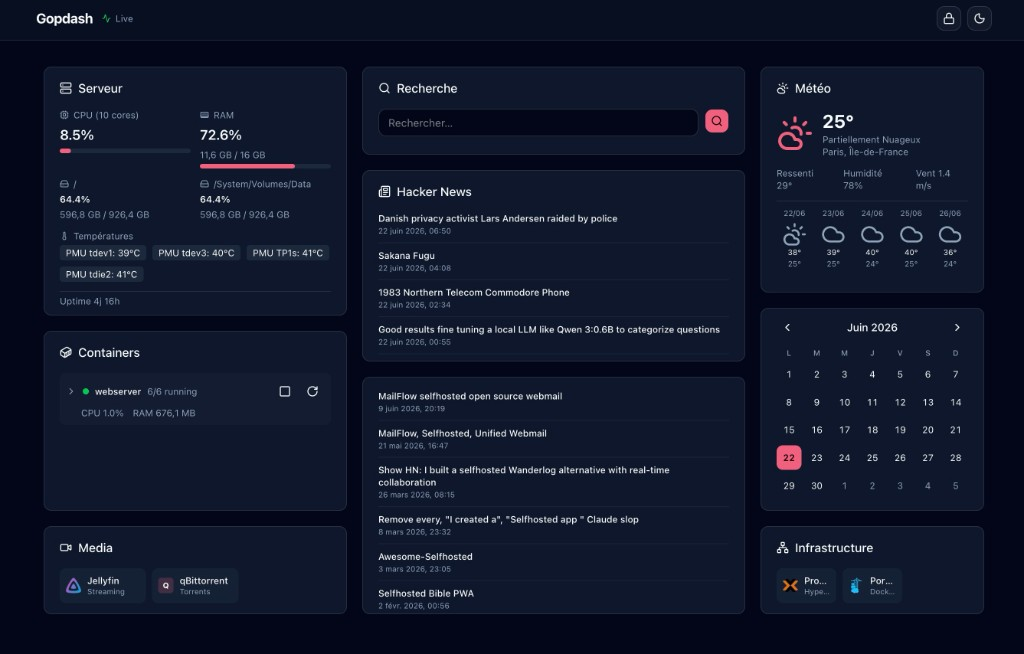
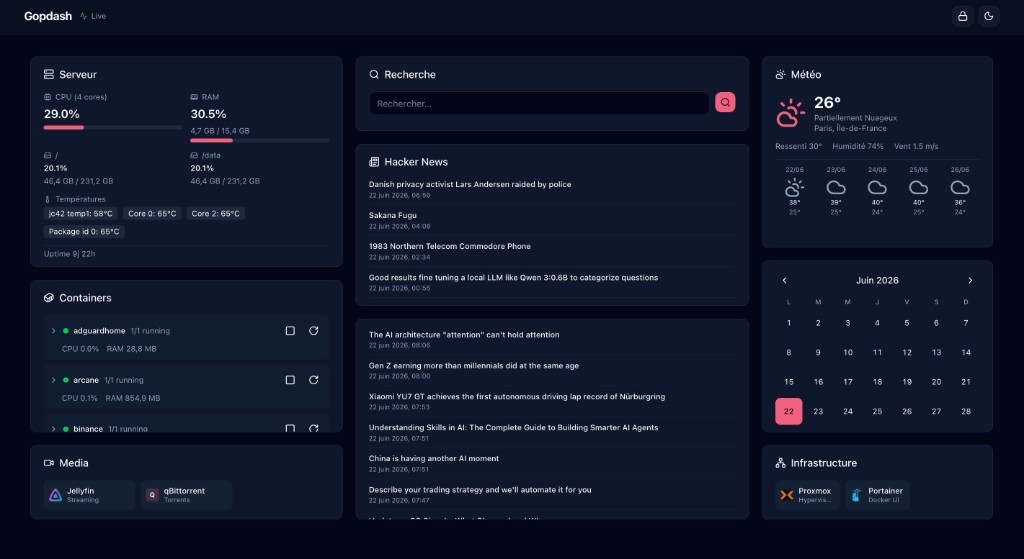
Retire arr_containers, met à jour l'aperçu dashboard et ajoute la capture métriques Docker.

diff --git a/frontend/src/lib/components/widgets/DockerWidget.svelte b/frontend/src/lib/components/widgets/DockerWidget.svelte
@@ -240,11 +240,6 @@
 			<div class="flex items-center gap-2 min-w-0">
 				<span class="w-2 h-2 rounded-full shrink-0 {stateColor(container.state)}"></span>
 				<span class="font-medium truncate">{containerDisplayName(container)}</span>
-				{#if container.is_arr && container.arr_kind}
-					<span class="px-1.5 py-0.5 rounded bg-primary/10 text-primary text-[10px] uppercase">
-						{container.arr_kind}
-					</span>
-				{/if}
 			</div>
 			{@render containerActions(container)}
 		</div>

diff --git a/frontend/src/lib/types.ts b/frontend/src/lib/types.ts
@@ -90,9 +90,6 @@ export interface ContainerInfo {
 	memory_usage: number;
 	memory_limit: number;
 	memory_percent: number;
-	is_arr: boolean;
-	arr_kind: string | null;
-	arr_url: string | null;
 	compose_project: string | null;
 	compose_service: string | null;
 }

diff --git a/backend/src/services/docker.rs b/backend/src/services/docker.rs
@@ -1,4 +1,3 @@
-use crate::config::{ArrKind, DockerConfig};
 use crate::error::{AppError, AppResult};
 use bollard::container::{
     ListContainersOptions, MemoryStats, RestartContainerOptions, StartContainerOptions,
@@ -25,16 +24,12 @@ pub struct ContainerInfo {
     pub memory_usage: u64,
     pub memory_limit: u64,
     pub memory_percent: f64,
-    pub is_arr: bool,
-    pub arr_kind: Option<String>,
-    pub arr_url: Option<String>,
     pub compose_project: Option<String>,
     pub compose_service: Option<String>,
 }
 
 pub struct DockerService {
     docker: Option<Docker>,
-    arr_map: Arc<RwLock<HashMap<String, (ArrKind, Option<String>)>>>,
     stats_cache: Arc<RwLock<HashMap<String, ContainerStats>>>,
 }
 
@@ -69,7 +64,6 @@ impl DockerService {
 
         Ok(Self {
             docker,
-            arr_map: Arc::new(RwLock::new(HashMap::new())),
             stats_cache: Arc::new(RwLock::new(HashMap::new())),
         })
     }
@@ -78,17 +72,6 @@ impl DockerService {
         self.docker
             .as_ref()
             .ok_or_else(|| AppError::Docker("Docker socket unavailable".into()))
-    }
-
-    pub async fn update_arr_map(&self, config: &DockerConfig) {
-        let mut map = self.arr_map.write().await;
-        map.clear();
-        for arr in &config.arr_containers {
-            map.insert(
-                arr.container_name.clone(),
-                (arr.kind.clone(), arr.url.clone()),
-            );
-        }
     }
 
     pub async fn list_containers(
@@ -108,7 +91,6 @@ impl DockerService {
             .map_err(|e| AppError::Docker(e.to_string()))?;
 
         let stats = self.stats_cache.read().await;
-        let arr_map = self.arr_map.read().await;
 
         let mut result: Vec<ContainerInfo> = containers
             .into_iter()
@@ -126,7 +108,6 @@ impl DockerService {
                     compose_project,
                     compose_service,
                     stats.get(&name),
-                    &arr_map,
                 ))
             })
             .collect();
@@ -142,11 +123,7 @@ impl DockerService {
         compose_project: Option<String>,
         compose_service: Option<String>,
         stats: Option<&ContainerStats>,
-        arr_map: &HashMap<String, (ArrKind, Option<String>)>,
     ) -> ContainerInfo {
-        let (arr_kind, arr_url) = arr_map.get(name).cloned().unwrap_or((ArrKind::Other, None));
-        let is_arr = !matches!(arr_kind, ArrKind::Other);
-
         let state = c.state.clone().unwrap_or_else(|| "unknown".into());
         let status = c.status.clone().unwrap_or_else(|| "unknown".into());
 
@@ -193,13 +170,6 @@ impl DockerService {
             memory_usage: mem_usage,
             memory_limit: mem_limit,
             memory_percent: mem_percent,
-            is_arr,
-            arr_kind: if is_arr {
-                Some(format!("{arr_kind:?}").trim_matches('"').to_lowercase())
-            } else {
-                None
-            },
-            arr_url,
             compose_project,
             compose_service,
         }

diff --git a/backend/src/config.rs b/backend/src/config.rs
@@ -417,42 +417,18 @@ fn default_rss_refresh() -> u64 {
 pub struct DockerConfig {
     #[serde(default = "default_docker_socket")]
     pub socket_path: String,
-    #[serde(default)]
-    pub arr_containers: Vec<ArrContainer>,
 }
 
 impl Default for DockerConfig {
     fn default() -> Self {
         Self {
             socket_path: default_docker_socket(),
-            arr_containers: vec![],
         }
     }
 }
 
 fn default_docker_socket() -> String {
     "/var/run/docker.sock".into()
-}
-
-#[derive(Debug, Clone, Deserialize, Serialize)]
-pub struct ArrContainer {
-    pub name: String,
-    pub container_name: String,
-    pub kind: ArrKind,
-    pub url: Option<String>,
-}
-
-#[derive(Debug, Clone, Deserialize, Serialize)]
-#[serde(rename_all = "lowercase")]
-pub enum ArrKind {
-    Radarr,
-    Sonarr,
-    Prowlarr,
-    Lidarr,
-    Readarr,
-    Bazarr,
-    Jellyfin,
-    Other,
 }
 
 #[derive(Debug, Clone, Copy, Deserialize, Serialize)]

diff --git a/backend/src/main.rs b/backend/src/main.rs
@@ -49,12 +49,6 @@ async fn main() -> anyhow::Result<()> {
 
     let state = Arc::new(AppState::new(config_source).await?);
 
-    // Initialize docker arr map from config
-    {
-        let cfg = state.config.get().await;
-        state.docker.update_arr_map(&cfg.docker).await;
-    }
-
     // Start background tasks
     state.docker.clone().spawn_stats_collector();
     let watch_target = state.config.source().watch_target();
@@ -131,8 +125,6 @@ fn spawn_config_watcher(state: Arc<AppState>, path: PathBuf) {
                     if let Err(e) = state.config.reload().await {
                         tracing::error!("Config reload failed: {e}");
                     } else {
-                        let cfg = state.config.get().await;
-                        state.docker.update_arr_map(&cfg.docker).await;
                         let _ = state.config_tx.send(());
                     }
                 }

diff --git a/README.md b/README.md
@@ -95,8 +95,6 @@ Gopdash/
 | `calendar` | Calendrier mensuel + horloge (locale / fuseau) | `type: calendar` + `show_today`, `show_outside_days`, `show_navigation` |
 | `search` | Recherche web multi-moteurs | `type: search` + `engine`, `target` |
 
-Les containers *arr (Radarr, Sonarr, Jellyfin…) sont détectés via `docker.arr_containers` et affichés avec un badge spécial.
-
 ### Locale et fuseau horaire
 
 Dans `config/app.yaml`, sous `settings` :
@@ -232,6 +230,10 @@ make docker         # Container Docker optimisé
 ```
 
 Le Dockerfile produit une image ~50-80 MB (Debian slim + binaire Rust strip + assets statiques gzip).
+
+À l'exécution, la consommation reste très faible (ex. ~6 Mo RAM, CPU quasi nul au repos) :
+
+![Consommation CPU / RAM du container Gopdash](docs/docker-metrics.png)
 
 ## Développement
 